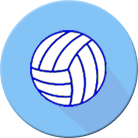
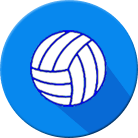
修改配色

diff --git a/src/views/index/Index.vue b/src/views/index/Index.vue
@@ -11,15 +11,15 @@
     <div class="swiper-wrap">
       <swiper :options="swiperOption">
         <swiper-slide>
-          <img data-src="../../static/img/twentyheart2.0.jpg" alt="" class="img swiper-lazy">
+          <img data-src="../../static/img/banner1.jpg" alt="" class="img swiper-lazy">
           <div class="swiper-lazy-preloader"></div>
         </swiper-slide>
         <swiper-slide>
-          <img data-src="../../static/img/twentyheart.jpg" alt="" class="img swiper-lazy">
+          <img data-src="../../static/img/banner2.jpg" alt="" class="img swiper-lazy">
           <div class="swiper-lazy-preloader"></div>
         </swiper-slide>
         <swiper-slide>
-          <img data-src="../../static/img/twentyheart2.0.jpg" alt="" class="img swiper-lazy">
+          <img data-src="../../static/img/banner1.jpg" alt="" class="img swiper-lazy">
           <div class="swiper-lazy-preloader"></div>
         </swiper-slide>
         <div class="swiper-pagination" slot="pagination"></div>
@@ -38,11 +38,15 @@
     </article>
     <!-- 底部功能按键 -->
     <footer>
-      <router-link to="personal">personal</router-link>
-      <div class="btn-wrap">
-        <button style="color: #83c2f4;background-color:#fff">预定器材</button>
+      <div class="btn-wrap btn-wrap-grow-1">
+        <router-link to="personal">
+          <i class="fa fa-user-circle-o" aria-hidden="true"></i>
+        </router-link>
       </div>
-      <div class="btn-wrap">
+      <div class="btn-wrap btn-wrap-grow-2">
+        <button style="color: #0788ee;background-color:#fff">预定器材</button>
+      </div>
+      <div class="btn-wrap btn-wrap-grow-2">
         <button style="color: #fff" @click=" checkSchool ">立即运动</button>
       </div>
     </footer>
@@ -240,11 +244,12 @@ $Blue: rgb(230, 240, 249);
       left: 50%;
       transform: translate(-50%, -50%);
       display: inline-block;
-      width: 100%;
+      width: 70%;
     }
     i {
       color: rgb(17, 136, 233);
       font-size: 22px;
+      z-index: 100;
     }
   }
   button {
@@ -344,20 +349,31 @@ footer {
   position: fixed;
   bottom: 0;
   display: flex;
-  margin-bottom: 20px;
+  align-items: center;
+  background-color: #fff;
+  padding-bottom: 20px;
   .btn-wrap {
-    flex: 1;
     button {
-      background-color: rgb(131, 194, 244);
+      background-color: #0788ee;
       outline: none;
       display: block;
-      width: 80%;
+      width: 90%;
       height: 35px;
       line-height: 35px;
-      margin: 0 auto;
       border: none;
       border-radius: 20px;
-      border: 1px solid rgb(131, 194, 244);
+      border: 1px solid #0788ee;
+    }
+  }
+  .btn-wrap-grow-2 {
+    flex-grow: 2;
+  }
+  .btn-wrap-grow-1 {
+    flex-grow: 1;
+    text-align: center;
+    .fa {
+      color: #0788ee;
+      font-size: 28px;
     }
   }
 }

diff --git a/src/views/introduce/introduce.vue b/src/views/introduce/introduce.vue
@@ -4,10 +4,10 @@
     <returnUrl :title=" '器材介绍' " :reUrl=" '/' "></returnUrl>
     <!-- banner -->
     <div id="banner">
-      <img src="../../../static/img/twentyheart.jpg" alt="banner">
+      <img src="../../../static/img/banner2.jpg" alt="banner">
       <p class="title">李宁7号通用篮球</p>
       <div class="line-wrap clearfix">
-        <p class="line-b fl"></p>
+        <p class="line-b fl"></p> 
         <p class="line-b fr"></p>
       </div>
       <div class="line-wrap clearfix">

diff --git a/src/views/personal/personal.vue b/src/views/personal/personal.vue
@@ -84,8 +84,8 @@ header {
     padding: 5px;
     border: 1px solid $blue;
     .avatar {
-      height: 95px;
-      width: 95px;
+      height: 50px;
+      width: 50px;
       border-radius: 50%;
       background-position: 50%;
       background-size: cover;
@@ -93,7 +93,7 @@ header {
     }
   }
   .info {
-    flex-group: 2;
+    flex-grow: 2;
     margin-left: 15px;
   }
 }
